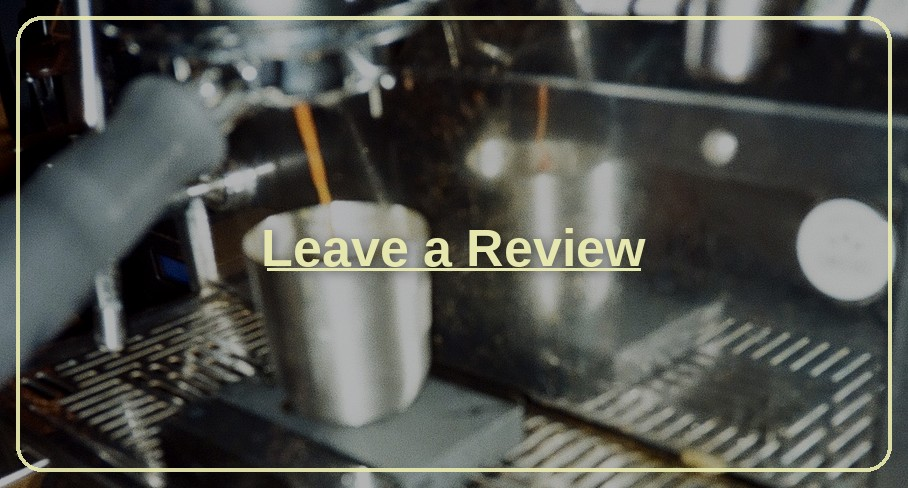
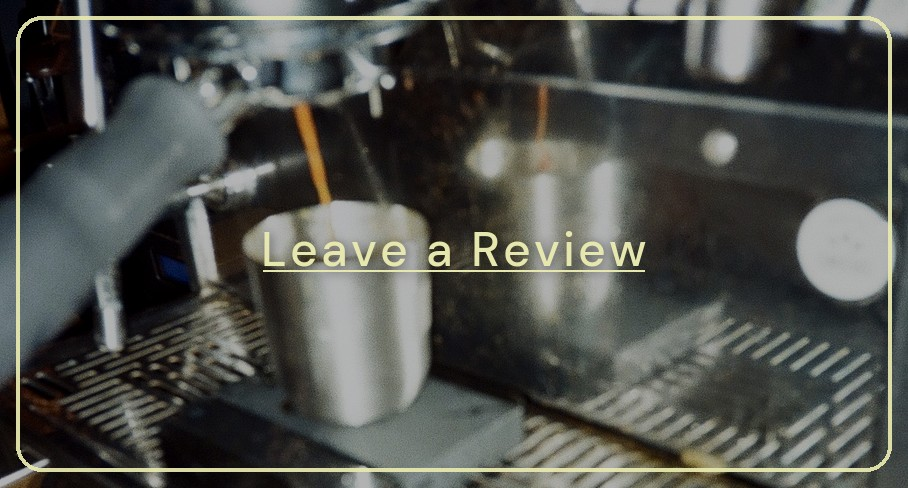
Restyle Leave a Review text with DM Sans to match site brand fonts.

Changed region(s): [[0.2775, 0.4611, 0.7093, 0.5533]]

diff --git a/links.html b/links.html
@@ -19,7 +19,7 @@
   <link rel="icon" href="/images/favicon.png" type="image/png" sizes="32x32">
   <link rel="icon" href="/images/icon-mug-48.png" type="image/png" sizes="48x48">
   <link rel="apple-touch-icon" href="/images/icon-mug-180.png">
-  <link rel="stylesheet" href="/css/links.css?v=20261017links2">
+  <link rel="stylesheet" href="/css/links.css?v=20261017links3">
 </head>
 <body class="page-links">
   <a href="#main" class="skip-link">Skip to content</a>
